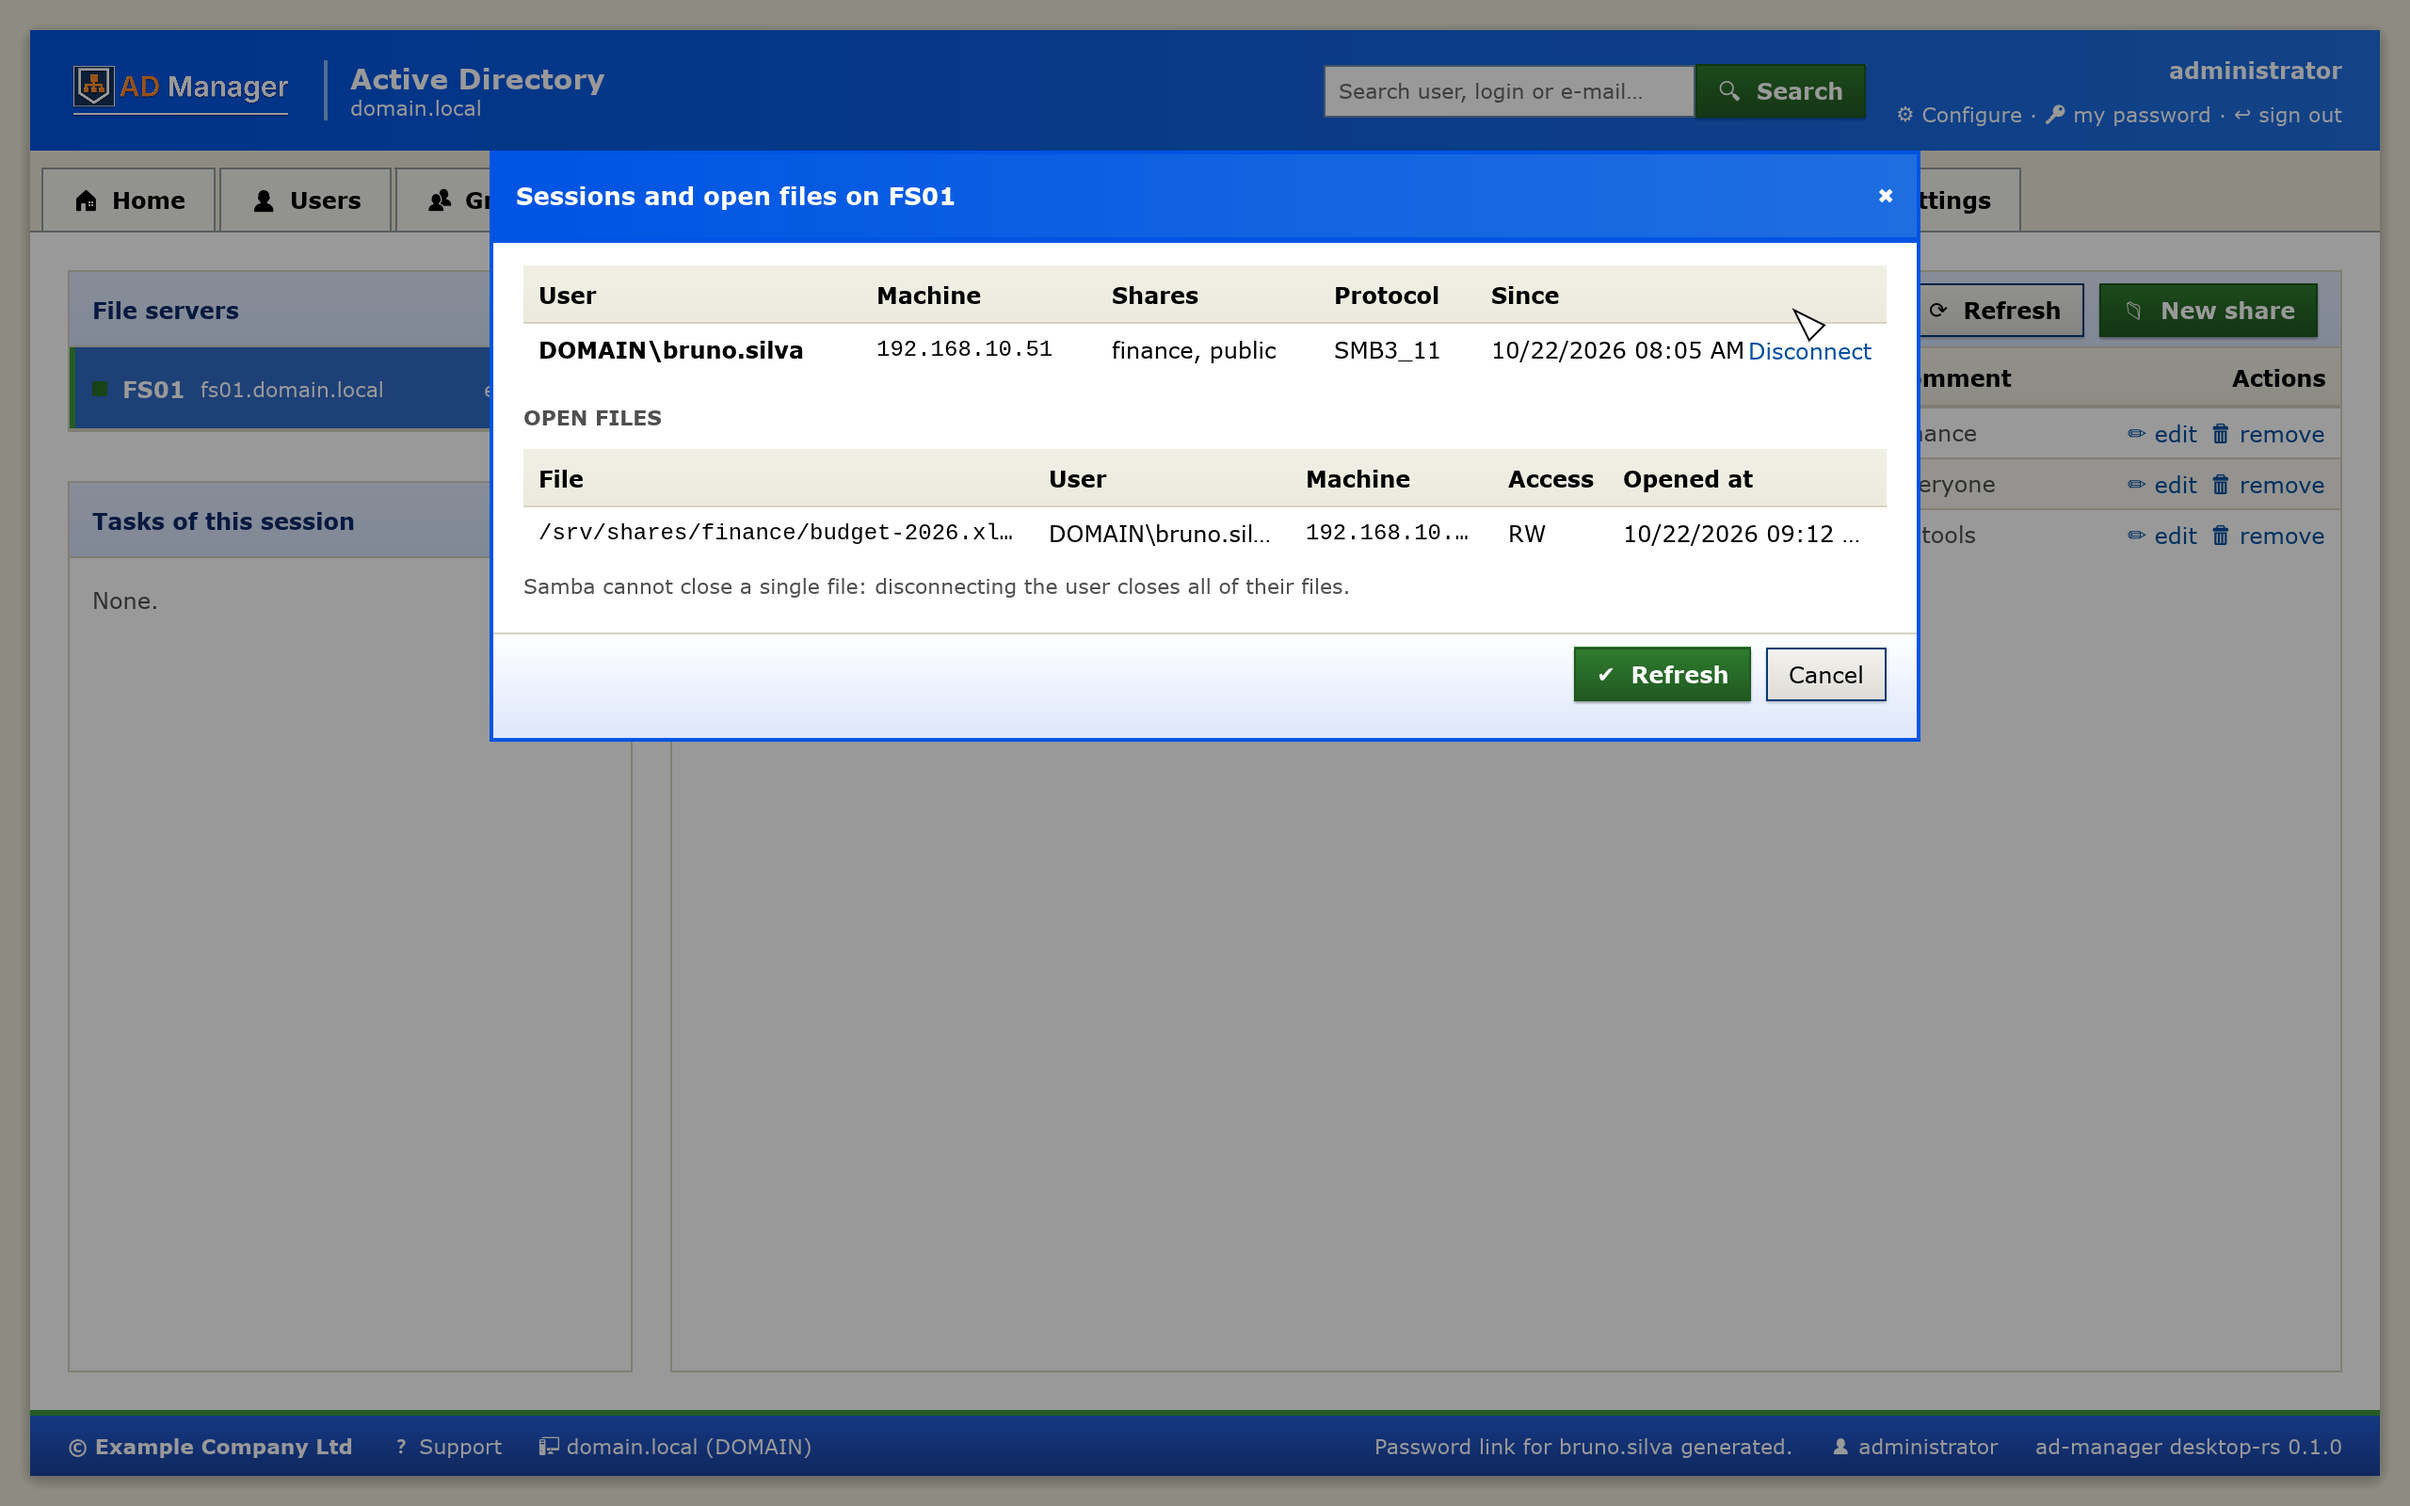
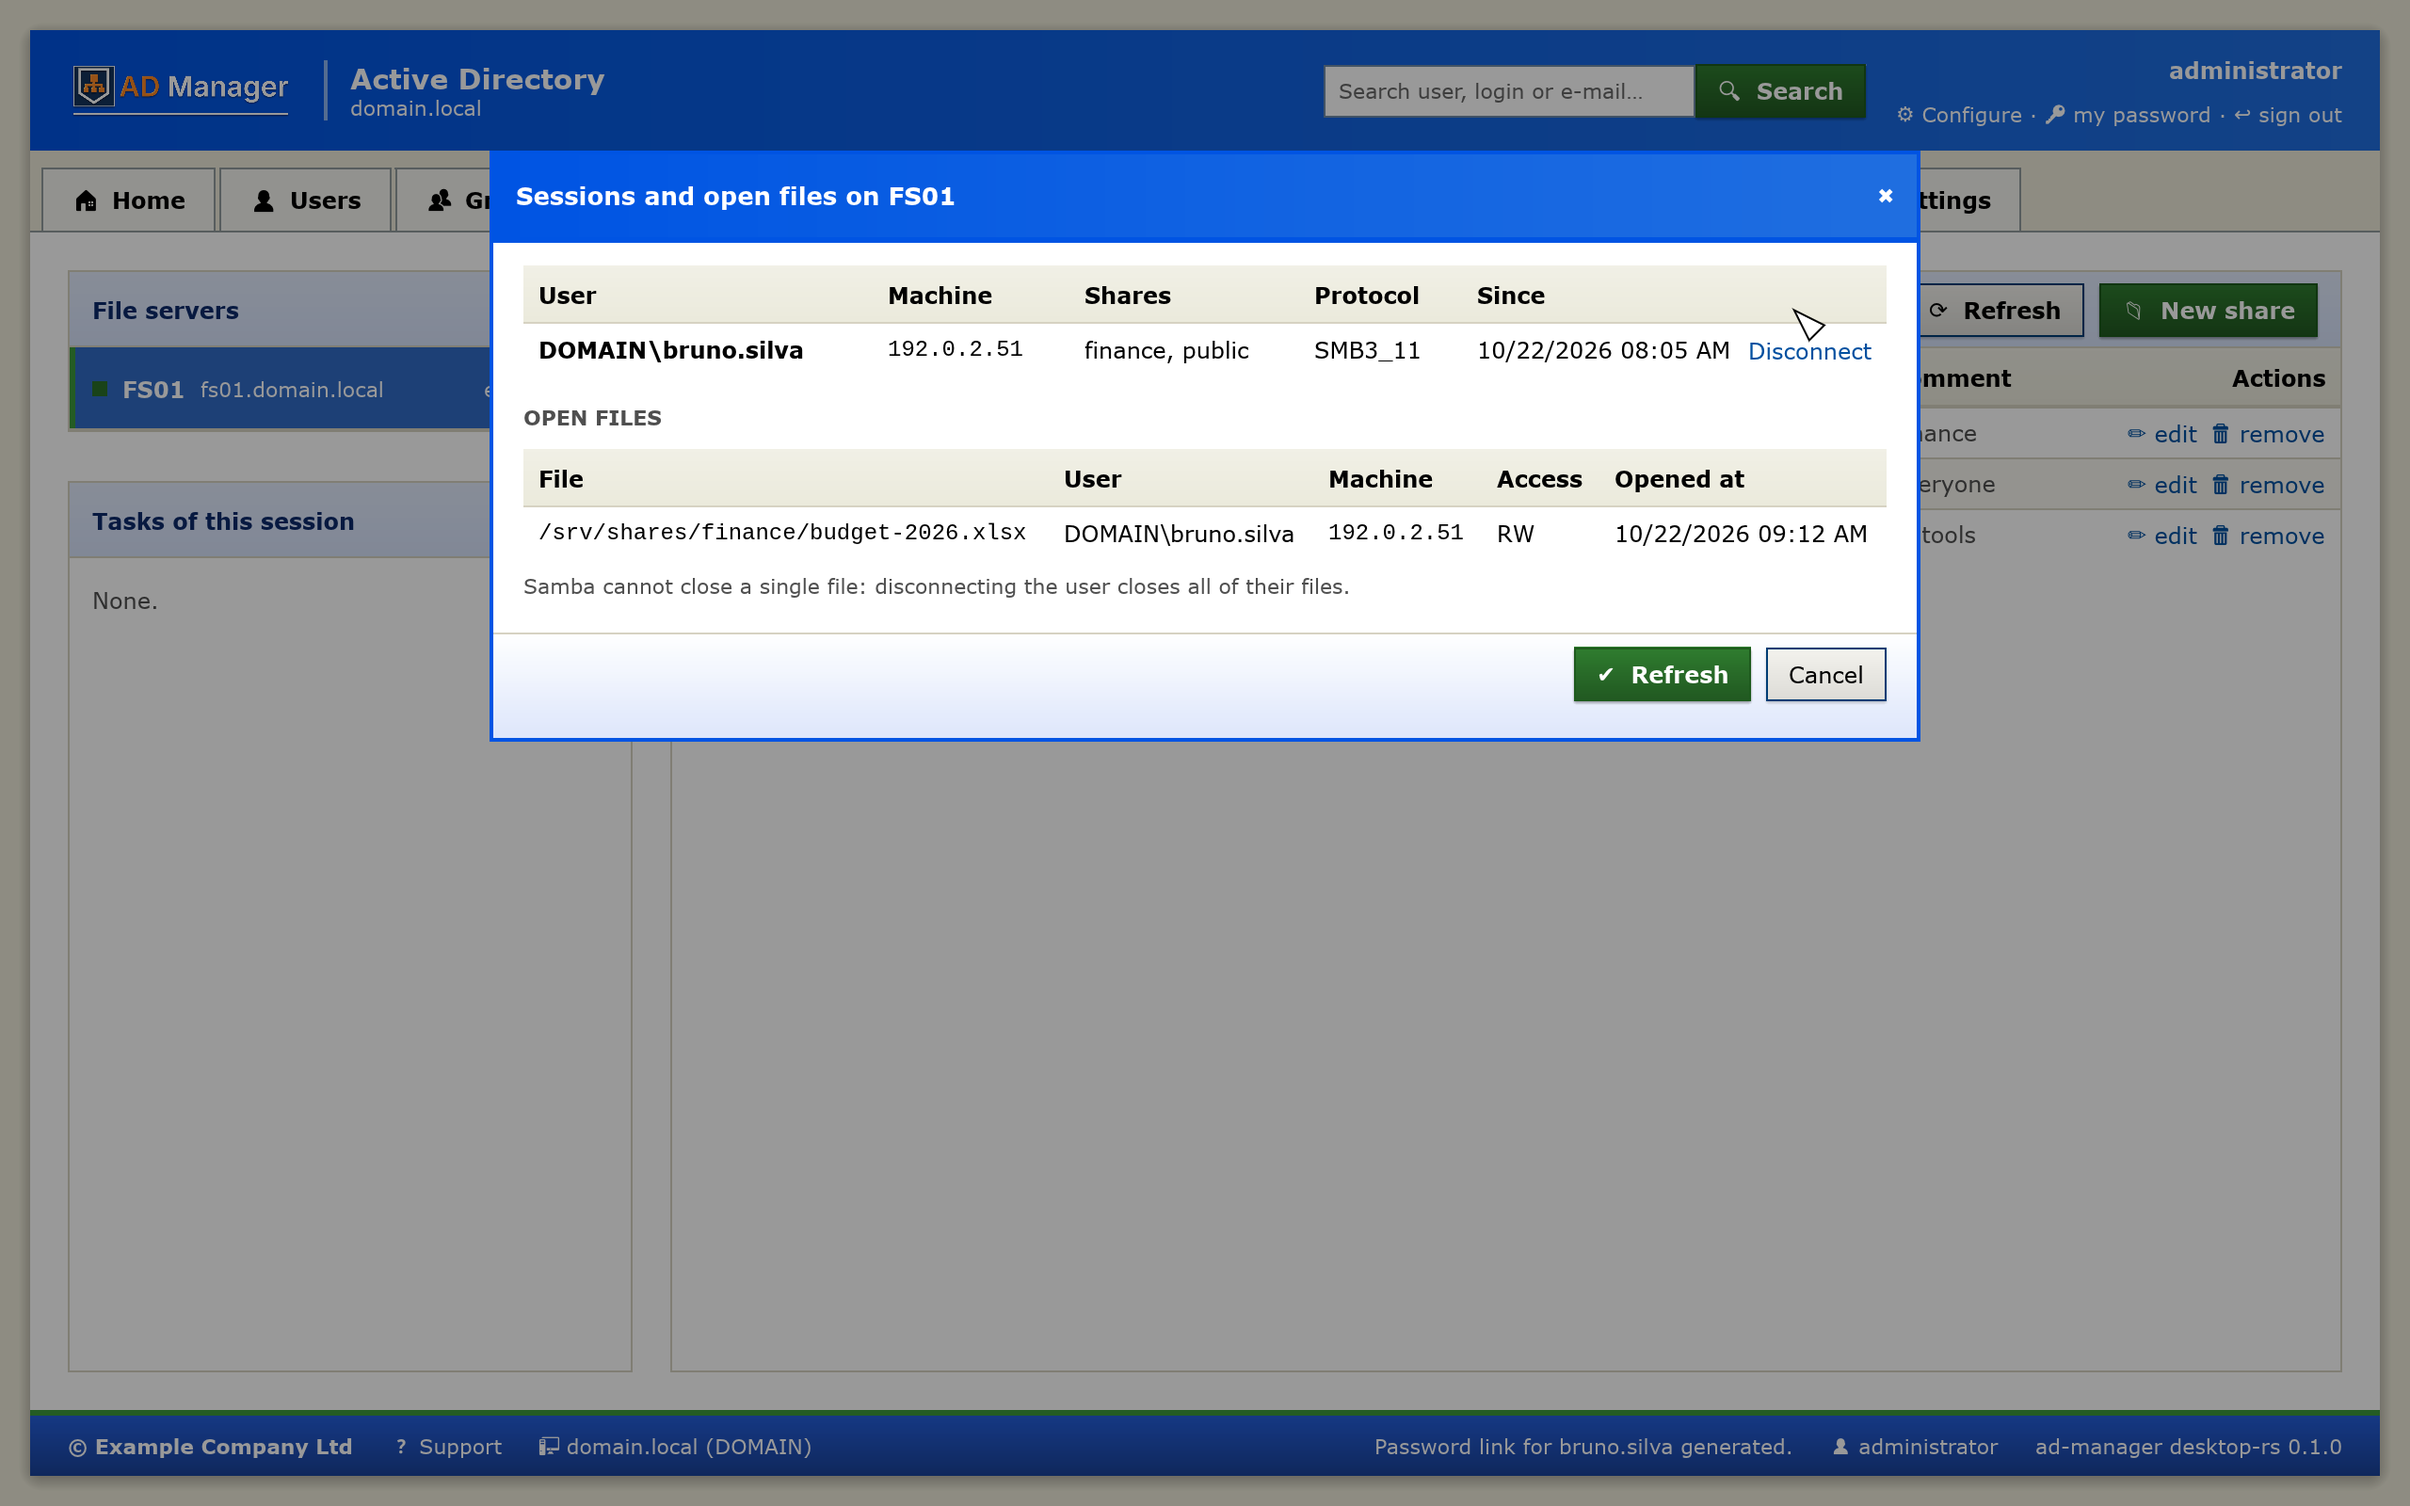
test(desktop-rust): fixtures and screenshots on the documentation range
The mock panel's addresses move to 192.0.2.0/24 (RFC 5737), so no
screenshot suggests a real network.

diff --git a/desktop-rust/crates/core/src/testkit.rs b/desktop-rust/crates/core/src/testkit.rs
@@ -271,13 +271,13 @@ pub fn demo(users: usize) -> Arc<Route> {
             "/api/dns/records" => ok(json!({"records": [
                 {"name":"@","type":"SOA","ttl":3600,"data":"dc01.domain.local. hostmaster.domain.local."},
                 {"name":"@","type":"NS","ttl":900,"data":"dc01.domain.local."},
-                {"name":"dc01","type":"A","ttl":900,"data":"192.168.10.10"},
-                {"name":"fs01","type":"A","ttl":1200,"data":"192.168.10.20"},
+                {"name":"dc01","type":"A","ttl":900,"data":"192.0.2.10"},
+                {"name":"fs01","type":"A","ttl":1200,"data":"192.0.2.20"},
                 {"name":"intranet","type":"CNAME","ttl":3600,"data":"fs01.domain.local."}],
                 "nodes": [{"name":"_sites","children":1},{"name":"_tcp","children":4},{"name":"DomainDnsZones","children":2}]})),
             "/api/computers/sessions" => ok(json!({"host":"ws01.domain.local","sessions":[
-                {"user":"DOMAIN\\bruno.silva","client":"192.168.10.51","open_files":3,"active_seconds":7500,"idle_seconds":40},
-                {"user":"DOMAIN\\ana.souza","client":"192.168.10.62","open_files":0,"active_seconds":180,"idle_seconds":180}]})),
+                {"user":"DOMAIN\\bruno.silva","client":"192.0.2.51","open_files":3,"active_seconds":7500,"idle_seconds":40},
+                {"user":"DOMAIN\\ana.souza","client":"192.0.2.62","open_files":0,"active_seconds":180,"idle_seconds":180}]})),
             "/api/agents" => ok(json!([{"id":1,"name":"FS01","url":"https://fs01.domain.local:8445"}])),
             "/api/policy" => ok(
                 json!({"complexity":true,"min_length":7,"history":24,"min_age_days":1,"max_age_days":42,"lockout_threshold":10,"lockout_minutes":30,"lockout_window_minutes":30}),
@@ -334,13 +334,13 @@ pub fn demo(users: usize) -> Arc<Route> {
                 {"path":"/srv/shares/finance","time":"2026-10-01T09:00:00Z","before":""}])),
             "/api/agents/1/health" => ok(json!({"status":"ok","dc":false,"files":true,"samba":true})),
             "/api/agents/1/sessions" => ok(json!({"sessions":[
-                {"id":"3c1","pid":4021,"user":"DOMAIN\\bruno.silva","machine":"192.168.10.51","dialect":"SMB3_11","encryption":"-","signing":"partial(AES-128-GMAC)","since":"2026-10-22T08:05:00Z","shares":["finance","public"]}],
-                "open_files":[{"path":"/srv/shares/finance/budget-2026.xlsx","pid":4021,"user":"DOMAIN\\bruno.silva","machine":"192.168.10.51","access":"RW","opened_at":"2026-10-22T09:12:00Z"}]})),
+                {"id":"3c1","pid":4021,"user":"DOMAIN\\bruno.silva","machine":"192.0.2.51","dialect":"SMB3_11","encryption":"-","signing":"partial(AES-128-GMAC)","since":"2026-10-22T08:05:00Z","shares":["finance","public"]}],
+                "open_files":[{"path":"/srv/shares/finance/budget-2026.xlsx","pid":4021,"user":"DOMAIN\\bruno.silva","machine":"192.0.2.51","access":"RW","opened_at":"2026-10-22T09:12:00Z"}]})),
             "/api/agents/1/sizes" => ok(json!({"sizes":{"finance":12884901888_i64,"public":734003200,"it$":52428800}})),
             p if p.starts_with("/api/samba/logs/") || p.starts_with("/api/agents/1/samba/logs/") => ok(json!([
                 {"time":"2026/10/22 09:12:04","level":0,"source":"../../source3/smbd/server.c:1745(main)","message":"smbd version 4.23.2 started.\nCopyright Andrew Tridgell and the Samba Team 1992-2025"},
                 {"time":"2026/10/22 08:40:11","level":2,"source":"../../source3/auth/auth.c:327(auth_check_ntlm_password)","message":"check_ntlm_password: Authentication for user [bruno.silva] -> [bruno.silva] FAILED with error NT_STATUS_WRONG_PASSWORD"},
-                {"time":"2026/10/22 08:05:59","level":3,"source":"../../source3/smbd/service.c:1109(make_connection_snum)","message":"192.168.10.51 (ipv4:192.168.10.51:50122) connect to service finance initially as user DOMAIN\\bruno.silva"}])),
+                {"time":"2026/10/22 08:05:59","level":3,"source":"../../source3/smbd/service.c:1109(make_connection_snum)","message":"192.0.2.51 (ipv4:192.0.2.51:50122) connect to service finance initially as user DOMAIN\\bruno.silva"}])),
             p if p.starts_with("/api/agents/1/tasks/") => ok(json!({"id":"t1","state":"completed"})),
             p if p.starts_with("/api/users/") => {
                 let sam = p.trim_start_matches("/api/users/");
